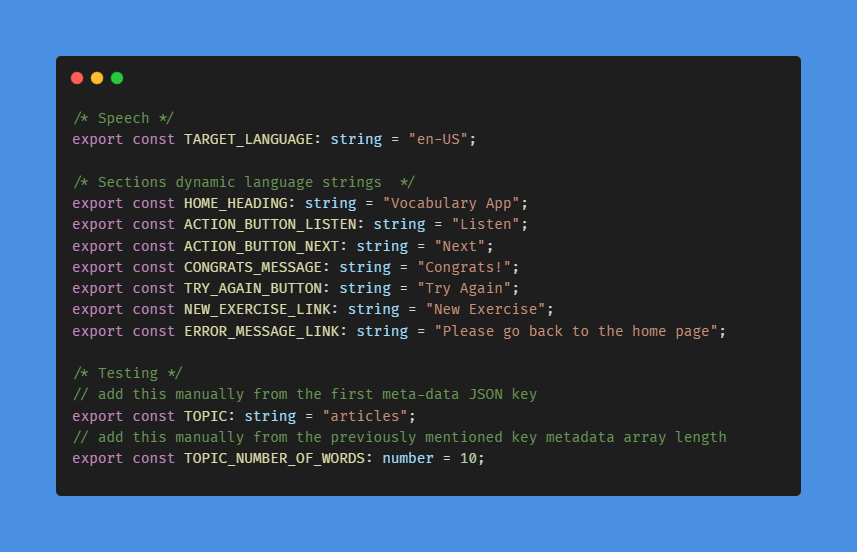
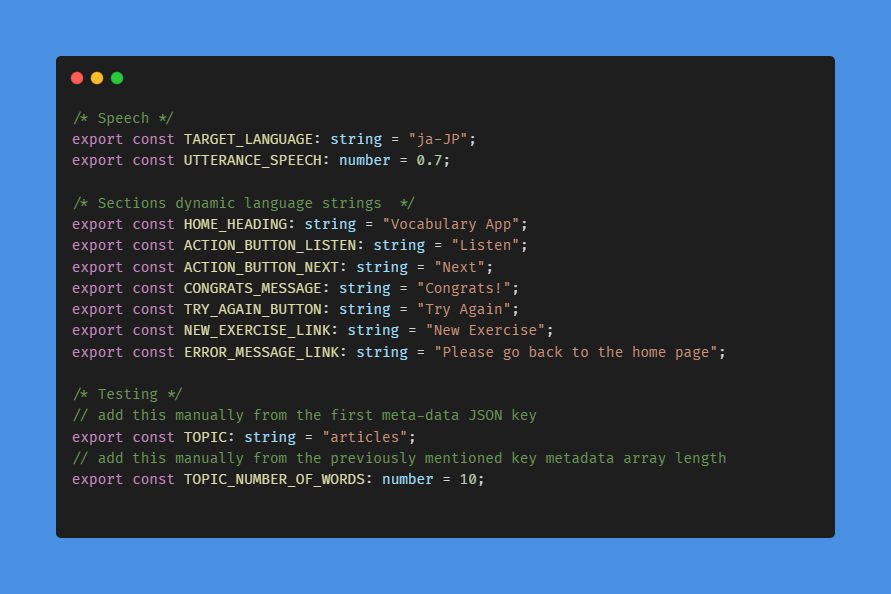
refactor: move the utterance speech to the constants file

Changed region(s): [[0.0607, 0.0924, 0.9405, 0.9239]]

diff --git a/src/lib/utils/speech.ts b/src/lib/utils/speech.ts
@@ -1,10 +1,10 @@
-import { TARGET_LANGUAGE } from "../../config/constants";
+import { TARGET_LANGUAGE, UTTERANCE_SPEED } from "../../config/constants";
 
 const speechUtterance = (text: string) => {
   const speech = new SpeechSynthesisUtterance();
   speech.text = text;
   speech.lang = TARGET_LANGUAGE;
-  speech.rate = 0.7;
+  speech.rate = UTTERANCE_SPEED;
   window.speechSynthesis.speak(speech);
 };
 

diff --git a/src/config/constants.ts b/src/config/constants.ts
@@ -1,5 +1,6 @@
 /* Speech */
 export const TARGET_LANGUAGE: string = "en-US";
+export const UTTERANCE_SPEED: number = 0.7;
 
 /* Sections dynamic language strings  */
 export const HOME_HEADING: string = "Vocabulary App";
